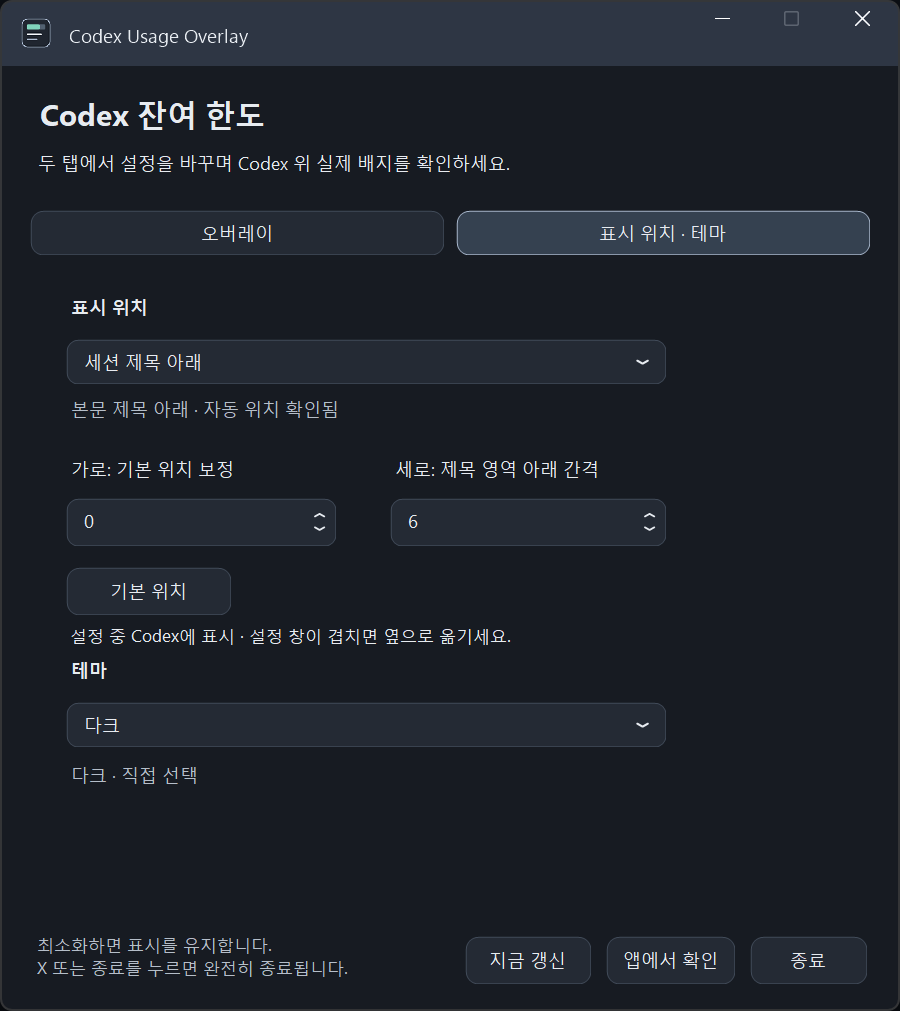
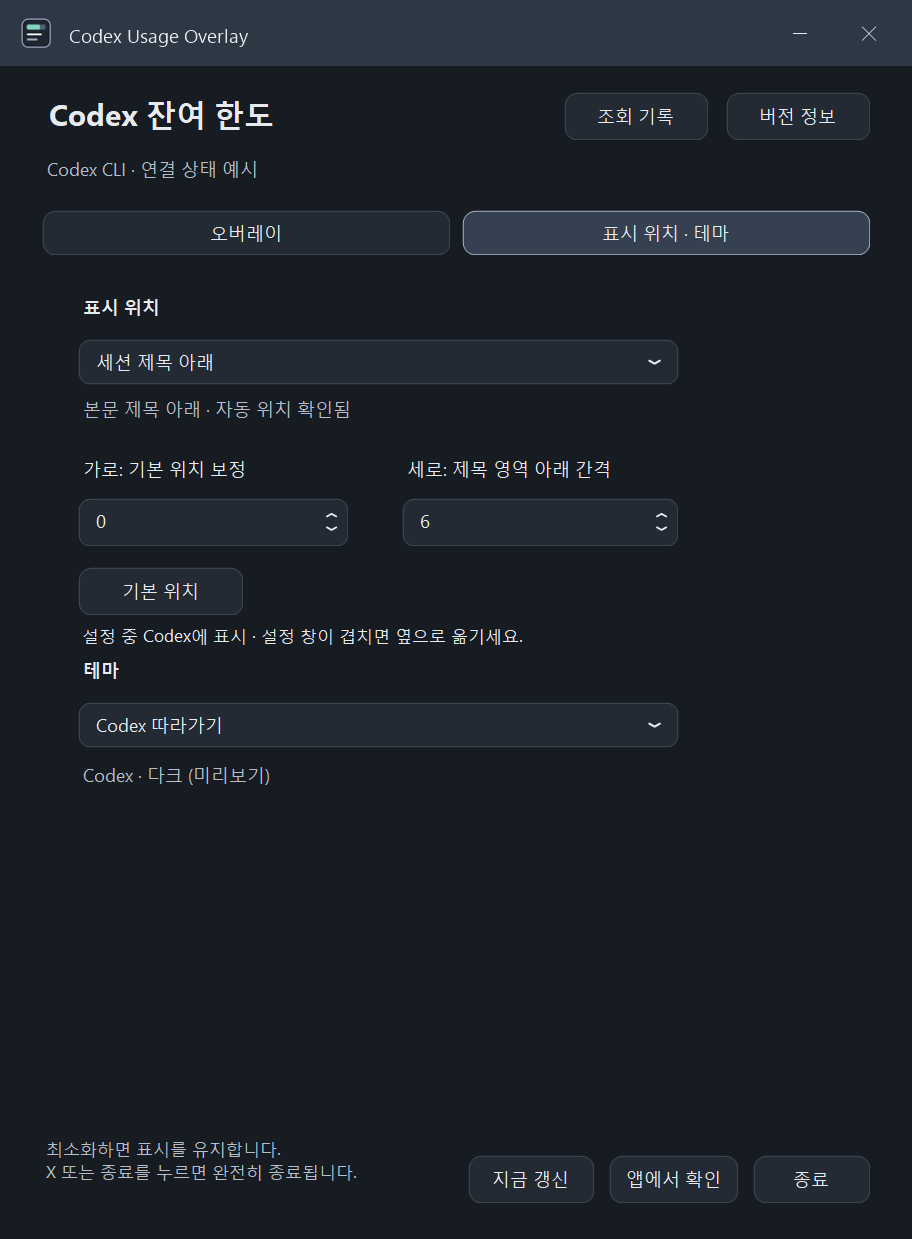
Update Next.js security patch and Codex Usage Overlay

diff --git a/src/features/desktop-tools/tools.ts b/src/features/desktop-tools/tools.ts
@@ -26,11 +26,13 @@ type DesktopTool = {
   addedOrder: number;
   path: string;
   repositoryUrl: string;
-  distribution: { kind: "releases" | "actions"; url: string };
+  release: { url: string; version?: string };
   screenshots: ToolScreenshot[];
   screenshotInfo?: Record<Language, string>;
   copy: Record<Language, ToolCopy>;
 };
+
+const overlayVersion = "v1.2.1";
 
 export const desktopTools: DesktopTool[] = [
   {
@@ -38,7 +40,7 @@ export const desktopTools: DesktopTool[] = [
     addedOrder: 1,
     path: "/workspace/tools/nas-desktop-app",
     repositoryUrl: "https://github.com/JooWon0712/nas-desktop-app",
-    distribution: { kind: "releases", url: "https://github.com/JooWon0712/nas-desktop-app/releases" },
+    release: { url: "https://github.com/JooWon0712/nas-desktop-app/releases" },
     screenshots: [
       {
         src: "/images/desktop-tools/nas-desktop-login.png",
@@ -105,7 +107,7 @@ export const desktopTools: DesktopTool[] = [
     addedOrder: 1,
     path: "/workspace/tools/pc-internet-monitor",
     repositoryUrl: "https://github.com/JooWon0712/pc-internet-monitor",
-    distribution: { kind: "releases", url: "https://github.com/JooWon0712/pc-internet-monitor/releases" },
+    release: { url: "https://github.com/JooWon0712/pc-internet-monitor/releases" },
     screenshots: [
       {
         src: "/images/desktop-tools/pc-internet-monitor-running.png",
@@ -174,84 +176,87 @@ export const desktopTools: DesktopTool[] = [
     addedOrder: 2,
     path: "/workspace/tools/codex-usage-overlay",
     repositoryUrl: "https://github.com/JooWon0712/codex-usage-overlay",
-    distribution: { kind: "actions", url: "https://github.com/JooWon0712/codex-usage-overlay/actions/workflows/windows-build.yml" },
+    release: {
+      url: `https://github.com/JooWon0712/codex-usage-overlay/releases/tag/${overlayVersion}`,
+      version: overlayVersion,
+    },
     screenshotInfo: {
-      ko: "오버레이의 수치는 촬영 당시의 값이며, 설정 미리보기는 예시 데이터입니다. 현재 계정의 실시간 한도를 보여주는 화면은 아닙니다.",
-      en: "The overlay values were captured at the time of the screenshot; the settings preview uses example data. These images do not show your account’s live limits.",
+      ko: "아래는 v1.2.0에서 예시 데이터로 촬영한 화면입니다.",
+      en: "These screenshots show v1.2.0 with sample data.",
     },
     screenshots: [
       {
-        src: "/images/desktop-tools/codex-usage-overlay-light.png",
-        width: 601,
-        height: 247,
-        caption: { ko: "밝은 테마의 잔여 한도 표시", en: "Remaining limits in the light theme" },
-        alt: { ko: "Codex 창 위에 주간 잔여 한도와 초기화 일정을 표시한 밝은 테마 오버레이", en: "A light overlay displaying the remaining weekly limit and reset schedule over the Codex window" },
+        src: "/images/desktop-tools/codex-usage-overlay-detailed.png",
+        width: 480,
+        height: 314,
+        caption: { ko: "상세형 배지", en: "Detailed badge" },
+        alt: { ko: "Codex 주간 한도와 Claude Code 현재 세션·주간 한도를 막대와 초기화 일정으로 보여주는 배지", en: "Badge with bars and reset times for Codex’s weekly limit and Claude Code’s current session and weekly limits" },
       },
       {
-        src: "/images/desktop-tools/codex-usage-overlay-dark.png",
-        width: 570,
-        height: 264,
-        caption: { ko: "어두운 테마의 잔여 한도 표시", en: "Remaining limits in the dark theme" },
-        alt: { ko: "Codex 창 위에 주간 잔여 한도와 초기화 일정을 표시한 어두운 테마 오버레이", en: "A dark overlay displaying the remaining weekly limit and reset schedule over the Codex window" },
+        src: "/images/desktop-tools/codex-usage-overlay-compact.png",
+        width: 516,
+        height: 176,
+        caption: { ko: "간결형 배지", en: "Compact badge" },
+        alt: { ko: "Codex와 Claude Code의 잔여 한도와 초기화 일정을 한 줄씩 표시한 배지", en: "Badge showing each Codex and Claude Code limit with its reset time on one line" },
       },
       {
         src: "/images/desktop-tools/codex-usage-overlay-settings.png",
-        width: 900,
-        height: 1011,
-        caption: { ko: "표시 항목과 투명도 설정", en: "Display options and opacity settings" },
-        alt: { ko: "예시 한도 미리보기와 투명도, 초기화 일정, 요금제 표시 옵션이 있는 설정 화면", en: "Settings with a sample limit preview, opacity control, and options for the reset schedule and subscription plan" },
+        width: 912,
+        height: 1239,
+        caption: { ko: "배지 형식과 표시 항목 설정", en: "Badge format and display settings" },
+        alt: { ko: "배지 미리보기와 투명도, Codex 초기화 일정, Claude Code 한도 표시 옵션이 있는 설정 화면", en: "Settings with a badge preview, opacity slider, Codex reset options, and a Claude Code limit toggle" },
       },
       {
         src: "/images/desktop-tools/codex-usage-overlay-position-theme.png",
-        width: 900,
-        height: 1011,
+        width: 912,
+        height: 1239,
         caption: { ko: "표시 위치와 테마 설정", en: "Position and theme settings" },
-        alt: { ko: "세션 제목 아래 배치, 위치 보정과 어두운 테마를 선택하는 설정 화면", en: "Settings for placing the overlay below the session title, adjusting its position and selecting the dark theme" },
+        alt: { ko: "세션 제목 아래 배치, 위치 보정, Codex 테마 따라가기 옵션이 있는 설정 화면", en: "Settings for placing the overlay below the session title, adjusting its position, and following the Codex theme" },
       },
     ],
     copy: {
       ko: {
         name: "Codex Usage Overlay",
         tagline: "남은 사용 한도를, 작업 화면에서 바로.",
-        cardDescription: "Codex의 남은 사용 한도를 작업 중에도 바로 확인하고 싶어 직접 만들었습니다. 주간·5시간 잔여 한도와 초기화 일정을 Codex 창 위에 작게 표시하는 Windows 앱입니다.",
-        story: "Codex를 사용하면서 남은 한도를 확인하느라 작업 흐름을 끊고 싶지 않았습니다. 필요한 정보를 작업 화면 위에 작게 띄워두려고 만들었습니다. Codex가 제공하는 한도 정보를 조회하며, 대화 내용이나 토큰 수로 잔여 한도를 추정하지 않습니다.",
+        cardDescription: "Codex 주간 잔여 한도와 초기화 일정을 Codex 창 위에 표시하는 Windows 앱입니다. Claude Code의 5시간·주간 한도도 함께 볼 수 있습니다.",
+        story: "Codex에서 작업하다가 잔여 한도를 보려면 다른 화면을 열어야 해서, 작업 창에서 바로 확인하는 배지를 만들었습니다. Codex와 Claude Code의 한도는 각 CLI에 로그인된 계정에서 가져옵니다.",
         features: [
-          { title: "잔여 한도와 초기화 일정", description: "계정에서 제공하는 주간·5시간 잔여 한도, 요금제와 주간 초기화 시각·D-day를 확인합니다." },
-          { title: "작업 화면 위에 작게", description: "세션 제목 아래나 사이드바에 배치합니다. Codex가 전면에 있을 때 표시하고, 마우스 클릭은 아래 창으로 전달합니다." },
-          { title: "내게 맞는 표시와 갱신", description: "위치·테마·투명도를 조절합니다. Codex가 전면에 있을 때 60초 간격으로 갱신하며, 오래된 값이나 조회 실패를 구분해 표시합니다." },
+          { title: "Codex 주간 한도", description: "주간 잔여 비율, 초기화 시각과 D-day를 확인합니다. 계정의 구독 요금제도 함께 표시할 수 있습니다." },
+          { title: "Claude Code 한도", description: "설정에서 켜면 5시간 단위의 현재 세션과 주간 잔여 한도, 초기화 일정을 함께 표시합니다. 앱이 실행 중이면 보통 15분마다 자동으로 갱신합니다." },
+          { title: "배지 형식과 위치", description: "막대가 있는 상세형과 한 줄씩 표시하는 간결형을 전환합니다. 세션 제목 아래 또는 사이드바에 배치하고 테마와 투명도를 조절할 수 있습니다." },
         ],
-        requirements: ["Windows 10 / 11 · 64비트(x64)", ".NET Framework 4.8", "Windows용 Codex 데스크톱 앱(MSIX 버전)", "Node.js와 ChatGPT 계정으로 로그인한 Codex CLI", "한도 정보를 조회할 수 있는 인터넷 연결"],
+        requirements: ["Windows 10 / 11 · 64비트(x64)", ".NET Framework 4.8", "Windows용 Codex 데스크톱 앱", "Node.js와 ChatGPT 계정으로 로그인한 Codex CLI", "선택 항목 · 구독 계정으로 로그인한 Windows 네이티브 Claude Code CLI 2.1.273 이상(2.x)"],
         steps: [
-          "GitHub 빌드 목록에서 성공한 실행을 열고, 로그인 후 Artifacts의 Windows x64 파일을 받습니다. 아직 정식 릴리스는 없으며 빌드 파일은 보관기간이 지나면 내려받을 수 없습니다.",
-          "포함된 ZIP의 전체 내용을 압축 해제하고 UsageOverlay.exe를 실행합니다. 함께 제공되는 파일을 같은 폴더에 두고, Node.js와 Codex CLI를 먼저 준비합니다.",
-          "Codex를 열어 한도 표시를 확인하고 위치·테마를 조정합니다. X나 종료를 누르면 완전히 종료되며, 업데이트할 때는 종료 후 전체 폴더의 파일을 교체합니다.",
+          "GitHub 릴리스의 Assets에서 Windows x64 ZIP을 받습니다.",
+          "ZIP 전체를 압축 해제한 뒤 UsageOverlay.exe를 실행합니다. 설정에서 ‘앱에서 확인’을 누르면 Codex로 돌아가 배지를 볼 수 있습니다.",
+          "Claude Code 한도도 보고 싶다면 Claude Code CLI에 로그인한 뒤 오버레이 설정에서 ‘한도 표시’를 켭니다. 기본값은 꺼짐입니다.",
         ],
         notes: [
-          "OpenAI의 공식 앱이나 확장 기능이 아닌 개인 보조 프로그램입니다. 기존 Codex CLI의 로그인 계정을 사용하므로 데스크톱 앱과 CLI가 같은 계정인지 확인하세요.",
-          "Codex 창의 구조를 이용해 위치를 맞추므로 앱 업데이트에 따라 배치가 달라질 수 있습니다. 모든 DPI·가상 데스크톱 환경의 호환성을 확인한 것은 아닙니다.",
-          "설치 프로그램·트레이 상주·자동 시작·자동 업데이트 기능은 없습니다. 배포 파일에는 Windows 게시자 서명이 없으므로 GitHub의 실행 안내를 확인하세요.",
+          "개인이 만든 보조 프로그램입니다. Codex 데스크톱과 CLI에 같은 계정으로 로그인하면 해당 계정의 한도가 표시됩니다.",
+          "업데이트할 때는 X 또는 ‘종료’로 앱을 닫은 뒤 압축을 푼 폴더 전체를 교체합니다. 사용자 설정은 유지됩니다. runtime-paths.json을 직접 수정했다면 새 폴더에 옮기세요.",
+          "Windows에서 게시자 확인 경고가 표시될 수 있습니다. GitHub 릴리스에서 SHA-256 체크섬과 실행 안내를 확인할 수 있습니다.",
         ],
       },
       en: {
         name: "Codex Usage Overlay",
         tagline: "Keep your remaining limits in view.",
-        cardDescription: "I built this to check my remaining Codex limits without leaving my work. It is a small Windows overlay showing weekly and five-hour limits and the reset schedule over the Codex window.",
-        story: "I wanted to keep an eye on my remaining Codex limits without interrupting my work, so I built a small overlay. It reads the limit information provided by Codex, rather than estimating it from conversation content or token counts.",
+        cardDescription: "A Windows overlay that shows your remaining weekly Codex limit and its reset time over the Codex window. You can also show Claude Code’s five-hour and weekly limits.",
+        story: "I built a badge to check my remaining Codex usage without leaving the window where I work. The overlay reads usage limits from the accounts signed in to the Codex and Claude Code CLIs.",
         features: [
-          { title: "Limits and reset schedule", description: "See the weekly and five-hour limits provided for your account, your subscription plan, and the weekly reset time and countdown." },
-          { title: "A small overlay while you work", description: "Place it below the session title or in the sidebar. It appears while Codex is in the foreground, and mouse clicks pass through to the window below." },
-          { title: "Display and refresh options", description: "Adjust the position, theme and opacity. It refreshes every 60 seconds while Codex is in the foreground and distinguishes stale data from failed requests." },
+          { title: "Codex weekly limit", description: "See your remaining weekly percentage, reset time, and countdown. You can also display your subscription plan." },
+          { title: "Claude Code limits", description: "Enable this option to show the current five-hour session and weekly limits with their reset times. They normally refresh every 15 minutes while the overlay is running." },
+          { title: "Badge format and placement", description: "Switch between a detailed badge with bars and a compact one-line-per-limit badge. Place it below the session title or in the sidebar, and adjust the theme and opacity." },
         ],
-        requirements: ["Windows 10 / 11 · 64-bit (x64)", ".NET Framework 4.8", "Codex desktop app for Windows (MSIX version)", "Node.js and Codex CLI signed in with a ChatGPT account", "An internet connection to retrieve limit information"],
+        requirements: ["Windows 10 / 11 · 64-bit (x64)", ".NET Framework 4.8", "Codex desktop app for Windows", "Node.js and Codex CLI signed in with a ChatGPT account", "Optional · Native Windows Claude Code CLI 2.1.273 or later in the 2.x series, signed in with a subscription"],
         steps: [
-          "Open a successful run in the GitHub build list, sign in and download the Windows x64 artifact. There is no formal release yet, and build files are only available within their retention period.",
-          "Extract the entire included ZIP and run UsageOverlay.exe. Keep all included files together, and set up Node.js and Codex CLI first.",
-          "Open Codex to see the overlay and adjust its position and theme. Close it with X or Exit to fully stop the app. Exit before replacing the complete folder when updating.",
+          "Download the Windows x64 ZIP from Assets on the GitHub release page.",
+          "Extract the entire ZIP and run UsageOverlay.exe. Use the button at the bottom of the settings window to return to Codex and see the badge.",
+          "To see Claude Code limits, sign in to the Claude Code CLI and enable its limit display in the overlay settings. This option is off by default.",
         ],
         notes: [
-          "This is an independently made companion, not an official OpenAI app or extension. It uses the existing Codex CLI sign-in, so check that the CLI and desktop app use the same account.",
-          "Positioning depends on the structure of the Codex window and may be affected by app updates. Compatibility with every DPI and virtual desktop setup has not been verified.",
-          "There is no installer, system tray, automatic startup or automatic update feature. The files are not signed with a Windows publisher certificate; read the setup guidance on GitHub before running them.",
+          "This is an independently made companion. Use the same account in Codex desktop and Codex CLI to display the limits for that account.",
+          "To update, close the app with X or Exit, then replace the whole extracted folder. Your settings are preserved. If you edited runtime-paths.json, copy it to the new folder.",
+          "Windows may show a publisher warning. The GitHub release includes a SHA-256 checksum and setup guidance.",
         ],
       },
     },

diff --git a/src/features/desktop-tools/tool-page.tsx b/src/features/desktop-tools/tool-page.tsx
@@ -21,11 +21,10 @@ const labels = {
     steps: "시작하는 방법",
     notes: "사용 전 참고",
     download: "GitHub에서 다운로드",
-    builds: "GitHub 빌드 확인",
+    downloadRelease: (version: string) => `GitHub에서 ${version} 다운로드`,
     repository: "소스 코드",
     issues: "문제 제보",
     releaseInfo: "릴리스 페이지에서 Windows용 파일과 사용 안내를 확인할 수 있습니다.",
-    buildInfo: "GitHub Actions의 성공한 빌드에서 Windows ZIP을 받을 수 있습니다. 파일을 받으려면 GitHub 로그인이 필요합니다.",
   },
   en: {
     category: "PC tools · Windows app",
@@ -39,11 +38,10 @@ const labels = {
     steps: "Getting started",
     notes: "Before you use it",
     download: "Download on GitHub",
-    builds: "View GitHub builds",
+    downloadRelease: (version: string) => `Download ${version} on GitHub`,
     repository: "Source code",
     issues: "Report an issue",
     releaseInfo: "Find the Windows files and setup instructions on the releases page.",
-    buildInfo: "Get the Windows ZIP from a successful GitHub Actions build. A GitHub sign-in is required to download the files.",
   },
 };
 
@@ -52,7 +50,7 @@ export function DesktopToolPage({ id, language }: { id: DesktopToolId; language:
   const text = tool.copy[language];
   const ui = labels[language];
   const path = localizePath(tool.path, language);
-  const hasRelease = tool.distribution.kind === "releases";
+  const downloadLabel = tool.release.version ? ui.downloadRelease(tool.release.version) : ui.download;
 
   return <article className={styles.page} lang={language} aria-labelledby="tool-title">
     <TerminalWindow title={path} bodyClassName={styles.body} parentLink={{ href: localizePath("/workspace", language), label: ui.parent }}>
@@ -69,10 +67,10 @@ export function DesktopToolPage({ id, language }: { id: DesktopToolId; language:
           <h2 id="tool-story">{ui.story}</h2>
           <p>{text.story}</p>
           <div className={styles.links}>
-            <a className="button" href={tool.distribution.url}>{hasRelease ? ui.download : ui.builds}<ArrowRight width={18} height={18} aria-hidden="true" /></a>
+            <a className="button" href={tool.release.url}>{downloadLabel}<ArrowRight width={18} height={18} aria-hidden="true" /></a>
             <a className="text-link" href={tool.repositoryUrl}>{ui.repository}<ArrowRight width={16} height={16} aria-hidden="true" /></a>
           </div>
-          <p className={styles.releaseInfo}>{hasRelease ? ui.releaseInfo : ui.buildInfo}</p>
+          <p className={styles.releaseInfo}>{ui.releaseInfo}</p>
         </section>
         <aside className={styles.requirements} aria-labelledby="tool-requirements">
           <h2 id="tool-requirements">{ui.requirements}</h2>

diff --git a/README.md b/README.md
@@ -6,7 +6,7 @@
 
 | 항목 | 구성 |
 | --- | --- |
-| 프레임워크 | Next.js 16.4.3 · App Router |
+| 프레임워크 | Next.js 16.4.6 · App Router |
 | UI | React 19.3.1 |
 | 언어 | TypeScript 7.0.2 |
 | 스타일 | 네이비·샌드 CLI 테마 · CSS · 반응형 레이아웃 |
